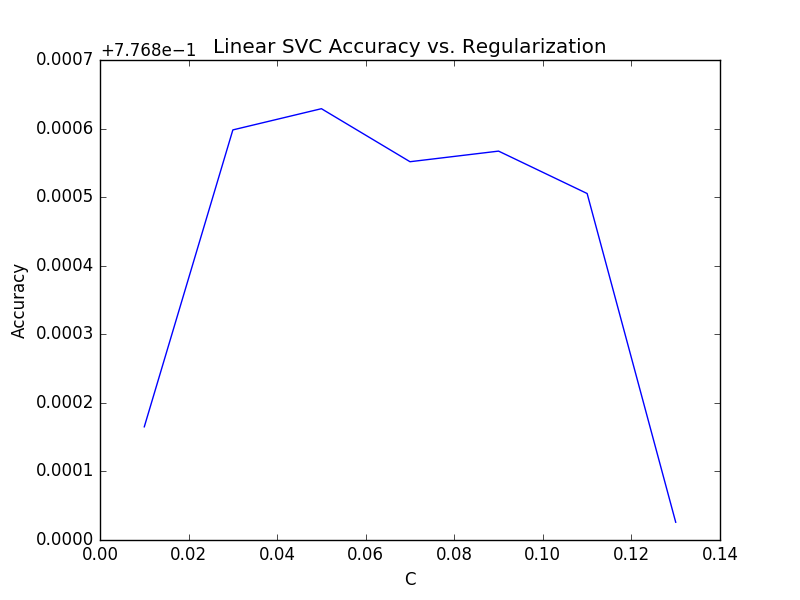
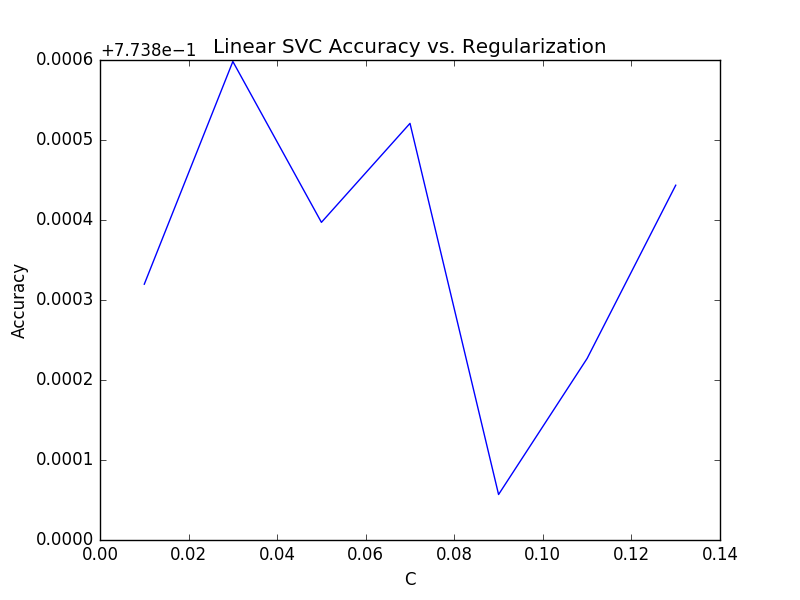
voting with a few different methods

diff --git a/voting.py b/voting.py
@@ -11,12 +11,12 @@ from sklearn.linear_model import LogisticRegression
 # Get the normalized data
 X_train, y_train, X_test = ut.import_data()
 
-clf_linsvc = LinearSVC(C=0.05)
+#clf_linsvc = LinearSVC(C=0.05)
 clf_adatree = AdaBoostClassifier(DecisionTreeClassifier(max_depth=2))
 clf_forest = RandomForestClassifier(10, max_depth=15)
-clf_logreg = LogisticRegression(C=0.15)
-
-eclf = VotingClassifier(estimators=[('LinearSVC', clf_linsvc), ('Ada Dec Tree', clf_adatree), ('Random Forest', clf_forest), ('Log Reg', clf_logreg)], voting='hard')
+clf_logreg = LogisticRegression(C=0.03)
+#('LinearSVC', clf_linsvc), 
+eclf = VotingClassifier(estimators=[('Ada Dec Tree', clf_adatree), ('Random Forest', clf_forest), ('Log Reg', clf_logreg)], voting='hard')
 
 eclf.fit(X_train, y_train)
 scores = cross_val_score(eclf, X_train, y_train, cv=5, scoring='accuracy')

diff --git a/svm.py b/svm.py
@@ -2,6 +2,7 @@ import numpy as np
 from sklearn.svm import LinearSVC
 import utilities as ut
 import matplotlib.pyplot as plt
+from sklearn.model_selection import cross_val_score
 
 # Get the normalized data
 X_train, y_train, X_test = ut.import_data()
@@ -15,7 +16,7 @@ for C in C_vals:
     clf = LinearSVC(C=C)
     clf.fit(X_train, y_train)
 
-    score = clf.score(X_train, y_train)
+    score = np.mean(cross_val_score(clf, X_train, y_train, cv=5, scoring='accuracy'))
     scores.append(score)
     print C, score
 
